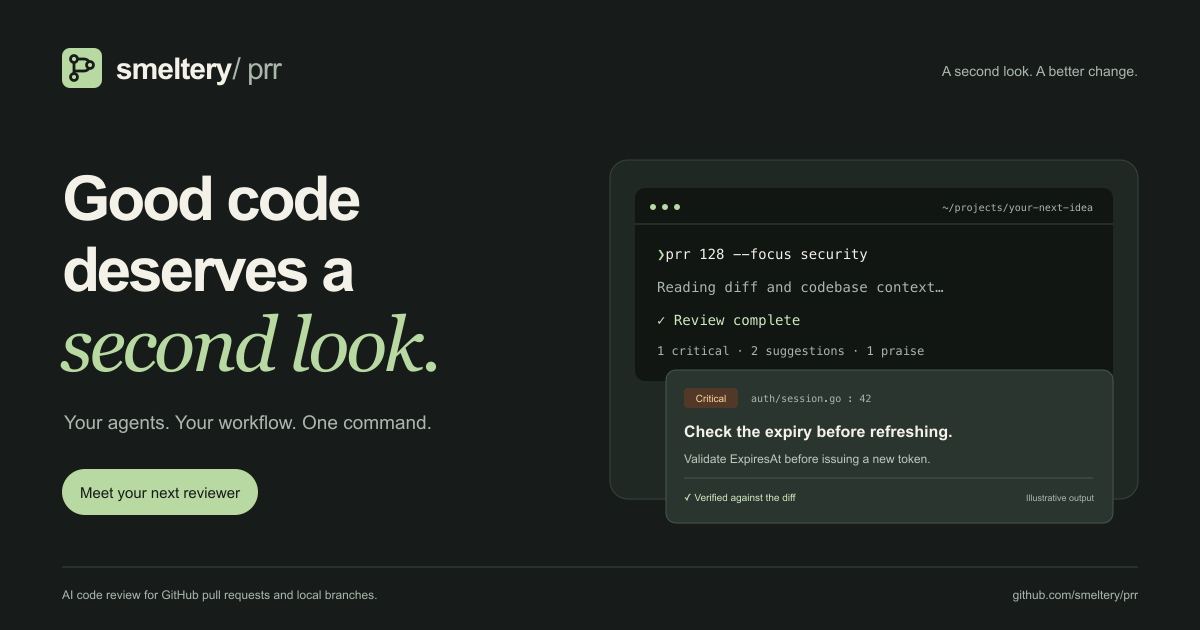
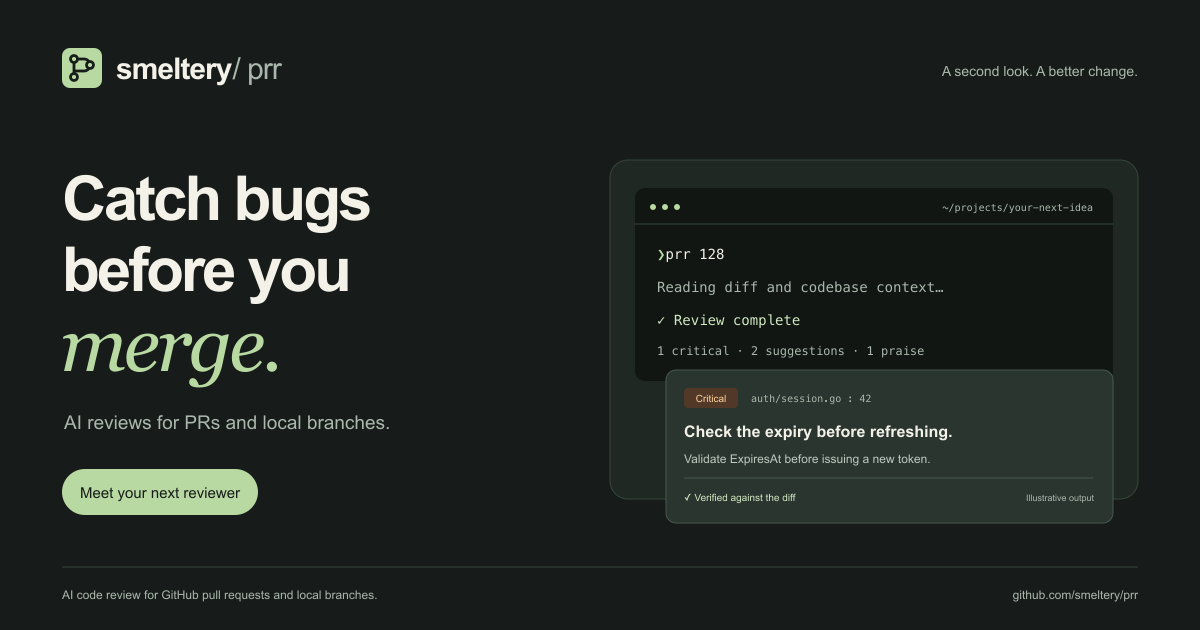
feat: make the hero explain prr at a glance

Changed region(s): [[0.0308, 0.2714, 0.37, 0.6333], [0.0617, 0.6635, 0.37, 0.6937], [0.6167, 0.3921, 0.7092, 0.4222]]

diff --git a/website/src/styles/site.css b/website/src/styles/site.css
@@ -1,9 +1,9 @@
-.hero { display: grid; grid-template-columns: 1.05fr 1fr; gap: 64px; padding-block: 110px 100px; align-items: center; }
+.hero { display: grid; grid-template-columns: 1.05fr 1fr; gap: 64px; padding-block: 80px 75px; align-items: center; }
 .hero h1 { margin: 25px 0; font-size: clamp(44px, 4.8vw, 68px); }
 .hero .lead { max-width: 470px; font-size: 17px; }
 .hero-actions { display: flex; align-items: center; gap: 26px; margin-top: 32px; }
 .text-link { font-size: 13px; text-decoration: underline; text-underline-offset: 5px; }
-.hero-platforms { display: flex; gap: 14px; font-size: 11px; color: var(--muted); margin-top: 24px; }
+.hero-platforms { display: flex; flex-wrap: wrap; gap: 14px; font-size: 11px; color: var(--muted); margin-top: 24px; }
 .review-scene { background: #202823; border: 1px solid #36453b; border-radius: 18px; padding: 28px; position: relative; }
 .scene-label { font-size: 9px; letter-spacing: .1em; margin-bottom: 25px; color: #d0e8bf; }
 .terminal { background: #111613; color: #f3f1e8; border-radius: 10px; box-shadow: 0 12px 30px #25321c16; }
@@ -24,10 +24,12 @@
 .note-foot span { margin-left: auto; color: var(--muted); font-size: 8px; }
 .scene-caption { display: flex; align-items: center; gap: 10px; font: italic 17px var(--serif); color: #bcc9bf; margin-top: 24px; }
 .scene-line { width: 30px; height: 1px; background: #b8d9a2; }
-.agent-strip { display: flex; gap: 40px; align-items: center; border-block: 1px solid var(--line); padding-block: 25px; }
-.agent-strip > span:first-child { font-size: 9px; letter-spacing: .09em; max-width: 150px; color: var(--muted); }
-.agent-strip > div { display: flex; align-items: center; gap: 9px; font-size: 16px; font-weight: 500; }
-.agent-note { margin-left: auto; font-size: 11px; color: var(--muted); }
+.agent-strip { border-top: 1px solid var(--line); margin-top: 28px; padding-top: 22px; }
+.agent-strip > span { display: block; font-size: 9px; letter-spacing: .09em; color: var(--muted); margin-bottom: 14px; }
+.hero-brands { display: flex; flex-wrap: wrap; gap: 16px 22px; }
+.hero-brands a,.hero-platforms span { display: inline-flex; align-items: center; gap: 7px; }
+.hero-brands a { font-size: 12px; }
+
 .section { padding-block: 90px; }
 .section-heading h2 { margin: 18px 0; }
 .section-heading > p:last-child { font-size: 14px; }
@@ -60,14 +62,14 @@ h2 em { font-family: var(--serif); font-weight: 400; color: var(--accent); }
 .simple-page p { margin: 24px 0; }
 .simple-page a:not(.button) { text-decoration: underline; }
 @media(min-width:1550px) { .wrap { max-width: 1320px; } }
-@media(max-width:1100px) { .hero { gap: 28px; padding-block: 70px; } .hero h1 { font-size: 49px; } .agent-strip { gap: 24px; } .agent-note { display: none; } .footer-grid { gap: 30px; grid-template-columns: 1.4fr 1fr 1fr 1fr; } }
+@media(max-width:1100px) { .hero { gap: 28px; padding-block: 70px; } .hero h1 { font-size: 49px; }  .footer-grid { gap: 30px; grid-template-columns: 1.4fr 1fr 1fr 1fr; } }
 @media(max-width:780px) {
   .wrap { width: calc(100% - 32px); } .site-header { padding-top: 10px; } .header-inner { height: 60px; padding-inline: 12px; gap: 12px; }
   .brand { font-size: 16px; gap: 8px; } .brand img { width: 28px; height: 28px; } .desktop-nav { display: none; } .header-search-trigger { margin-left: auto; }
   .menu-toggle { display: flex; align-items: center; gap: 6px; border: 1px solid var(--line); border-radius: 999px; font-size: 12px; }
   .hero { grid-template-columns: 1fr; padding-block: 55px 45px; gap: 40px; } .hero h1 { font-size: clamp(40px, 9vw, 60px); } .hero .lead { font-size: 15px; }
   .hero-actions { gap: 18px; } .hero-platforms { font-size: 10px; } .review-scene { padding: 22px 18px; } .terminal-body { padding: 18px 15px; font-size: 11px; } .review-note { margin-left: 12px; }
-  .agent-strip { flex-wrap: wrap; gap: 23px; padding-block: 22px; } .agent-strip > span:first-child { max-width: none; width: 100%; } .agent-strip > div { font-size: 13px; }
+  .hero-brands { display: grid; grid-template-columns: 1fr 1fr; gap: 14px; } .hero-brands img { width: 20px; height: 20px; }
   .section { padding-block: 60px; } .feature-grid { grid-template-columns: 1fr 1fr; } .feature-grid article:not(:nth-child(3n+1)) { padding-left: 0; border-left: 0; } .feature-grid article { padding: 25px 18px 25px 0; } .feature-grid article:nth-child(2n) { border-left: 1px solid var(--line); padding-left: 18px; padding-right: 0; }
   .feature-grid h3 { font-size: 15px; } .feature-grid p { font-size: 12px; } .steps { grid-template-columns: 1fr; gap: 32px; } .steps p { max-width: none; } .workflow-section { padding-block: 55px; }
   .quick-start { grid-template-columns: 1fr; gap: 30px; } .footer-grid { grid-template-columns: 1fr 1fr; gap: 35px 25px; } .footer-brand { grid-column: 1/-1; } .footer-grid nav h2 { margin-bottom: 20px; } .footer-grid nav > a { font-size: 12px; min-height: 28px; }
@@ -80,7 +82,7 @@ h2 em { font-family: var(--serif); font-weight: 400; color: var(--accent); }
 .github-link img { filter: none; }
 ::selection { background: #b8d9a2; color: #171c1a; }
 
-.agent-strip img { filter: brightness(0) invert(1); }
+.agent-strip img,.hero-platforms img { filter: brightness(0) invert(1); }
 
 .icon-link img { filter: brightness(0) invert(1); }
 

diff --git a/website/src/components/Hero.tsx b/website/src/components/Hero.tsx
@@ -1,0 +1,102 @@
+import Link from "next/link";
+import Image from "next/image";
+import { ShieldCheck, Terminal } from "lucide-react";
+
+export function Hero() {
+  return (
+    <section className="hero wrap">
+      <div className="hero-copy">
+        <p className="eyebrow">
+          <span className="status-dot" />
+          AI code review, right in your terminal
+        </p>
+        <h1>
+          Catch bugs
+          <br />
+          <em>before you merge.</em>
+        </h1>
+        <p className="lead">
+          Review GitHub PRs and local branches with AI. Find risky changes, verify the findings, and decide what gets
+          posted.
+        </p>
+        <div className="hero-actions">
+          <Link className="button" href="/docs/installation">
+            Review your first PR
+          </Link>
+          <Link className="text-link" href="#review-preview">
+            See a sample review
+          </Link>
+        </div>
+        <div className="hero-platforms">
+          <span>
+            <Image src="/brands/apple.svg" width={14} height={14} alt="" /> macOS
+          </span>
+          <span>
+            <Image src="/brands/linux.svg" width={14} height={14} alt="" /> Linux
+          </span>
+          <span>No automatic posting.</span>
+        </div>
+        <div className="agent-strip" aria-label="Supported tools">
+          <span>YOUR CODE. YOUR AI. ONE WORKFLOW.</span>
+          <div className="hero-brands">
+            {[
+              ["GitHub", "github", "reviews"],
+              ["Git", "git", "reviews"],
+              ["Claude", "claude", "agents"],
+              ["Codex / OpenAI", "chatgpt", "agents"],
+            ].map(([name, icon, page]) => (
+              <Link href={`/docs/${page}`} key={name}>
+                <Image src={`/brands/${icon}.svg`} alt="" width={22} height={22} />
+                {name}
+              </Link>
+            ))}
+          </div>
+        </div>
+      </div>
+      <div id="review-preview" className="review-scene" aria-label="Illustrative review output">
+        <div className="scene-label">
+          <span className="status-dot" />
+          ONE COMMAND. VERIFIED FINDINGS.
+        </div>
+        <div className="terminal">
+          <div className="terminal-top">
+            <span className="window-dots">● ● ●</span>
+            <span>~/projects/your-next-idea</span>
+            <Terminal size={14} />
+          </div>
+          <div className="terminal-body">
+            <p>
+              <span className="terminal-prompt">❯</span> prr 128
+            </p>
+            <p className="terminal-muted">Reading pull request #128…</p>
+            <p className="terminal-muted">Gathering codebase context…</p>
+            <p>
+              <span className="terminal-success">✓</span> Review complete
+            </p>
+            <div className="terminal-summary">
+              <span>1 critical</span>
+              <span>2 suggestions</span>
+              <span>1 praise</span>
+            </div>
+          </div>
+        </div>
+        <div className="review-note">
+          <div className="note-header">
+            <span className="severity">Critical</span>
+            <code>auth/session.go : 42</code>
+          </div>
+          <h2>Expired sessions can get fresh tokens.</h2>
+          <p>
+            An expired session can reach the refresh path. Validate <code>ExpiresAt</code> before issuing a new token.
+          </p>
+          <div className="note-foot">
+            <ShieldCheck size={14} /> Verified against the diff <span>Illustrative output</span>
+          </div>
+        </div>
+        <div className="scene-caption">
+          <span className="scene-line" /> Find the risk. Understand the fix.
+        </div>
+      </div>
+    </section>
+  );
+}

diff --git a/website/app/page.tsx b/website/app/page.tsx
@@ -2,84 +2,13 @@ import { ReviewScenarios, AgentChoice, SavedReviews, HomeQuestions } from "@/com
 import { Closing } from "@/components/Closing";
 import Link from "next/link";
 import { GitPullRequest, ShieldCheck, FolderGit2, MessagesSquare, FileText, Terminal } from "lucide-react";
-import { AgentStrip } from "@/components/AgentStrip";
+import { Hero } from "@/components/Hero";
 import { CopyButton } from "@/components/CopyButton";
 
 export default function Page() {
   return (
     <main id="main">
-      <section className="hero wrap">
-        <div className="hero-copy">
-          <p className="eyebrow">
-            <span className="status-dot" />A fresh perspective on every pull request
-          </p>
-          <h1>
-            Good code deserves
-            <br />a <em>second look.</em>
-          </h1>
-          <p className="lead">
-            Meet prr. Thoughtful AI code reviews for your pull requests and local branches. Your agents, your workflow,
-            one simple command.
-          </p>
-          <div className="hero-actions">
-            <Link className="button" href="/docs/installation">
-              Start your first review
-            </Link>
-            <Link className="text-link" href="/docs">
-              See how it works
-            </Link>
-          </div>
-          <div className="hero-platforms">
-            <span>Built with Go.</span>
-            <span>Made for macOS &amp; Linux.</span>
-          </div>
-        </div>
-        <div className="review-scene" aria-label="Illustrative review output">
-          <div className="scene-label">
-            <span className="status-dot" />
-            SMALL COMMAND. USEFUL PERSPECTIVE.
-          </div>
-          <div className="terminal">
-            <div className="terminal-top">
-              <span className="window-dots">● ● ●</span>
-              <span>~/projects/your-next-idea</span>
-              <Terminal size={14} />
-            </div>
-            <div className="terminal-body">
-              <p>
-                <span className="terminal-prompt">❯</span> prr 128 --focus security
-              </p>
-              <p className="terminal-muted">Reading pull request #128…</p>
-              <p className="terminal-muted">Gathering codebase context…</p>
-              <p>
-                <span className="terminal-success">✓</span> Review complete
-              </p>
-              <div className="terminal-summary">
-                <span>1 critical</span>
-                <span>2 suggestions</span>
-                <span>1 praise</span>
-              </div>
-            </div>
-          </div>
-          <div className="review-note">
-            <div className="note-header">
-              <span className="severity">Critical</span>
-              <code>auth/session.go : 42</code>
-            </div>
-            <h2>Check the expiry before refreshing.</h2>
-            <p>
-              An expired session can reach the refresh path. Validate <code>ExpiresAt</code> before issuing a new token.
-            </p>
-            <div className="note-foot">
-              <ShieldCheck size={14} /> Verified against the diff <span>Illustrative output</span>
-            </div>
-          </div>
-          <div className="scene-caption">
-            <span className="scene-line" /> More context. Less guesswork.
-          </div>
-        </div>
-      </section>
-      <AgentStrip />
+      <Hero />
       <section id="features" className="section wrap">
         <div className="section-heading">
           <p className="eyebrow">Thoughtful by design</p>

diff --git a/website/src/styles/docs-extra.css b/website/src/styles/docs-extra.css
@@ -1,4 +1,3 @@
-.docs-sidebar { top: 82px; height: calc(100dvh - 82px); }
 .docs-sidebar nav > div > a { display: block; padding: 10px; font-size: 12px; border-radius: 6px; color: #bcc9bf; }
 .docs-sidebar a[aria-current] { background: #2a352f; color: #d0e8bf; }
 .docs-main { padding-bottom: 65px; }
@@ -12,12 +11,10 @@
 .doc-content table { width: 100%; border-collapse: collapse; font-size: 12px; margin: 24px 0; }
 .doc-content th,.doc-content td { text-align: left; padding: 13px 10px; border-bottom: 1px solid var(--line); overflow-wrap: anywhere; }
 .doc-content th { color: #f3f1e8; }.doc-content td { color: #bcc9bf; }
-.docs-toc { top: 100px; color: #aab7ac; }
 .docs-toc nav { display: grid; gap: 16px; line-height: 1.5; }
 .docs-pagination { display: flex; justify-content: space-between; gap: 20px; border-top: 1px solid var(--line); margin-top: 45px; padding-top: 24px; }
 .docs-pagination small { display: block; color: var(--muted); font-size: 11px; }
 .mermaid-diagram { margin: 25px 0; padding: 22px; border: 1px solid var(--line); background: #202823; border-radius: 12px; overflow: auto; }
-.mermaid-diagram svg { display: block; min-width: 450px; height: auto; margin: auto; }
 .mobile-toc { display: none; }
 @media(max-width:1100px) { .docs-toc { display: none; } .mobile-toc { display: block; padding: 12px; border: 1px solid var(--line); border-radius: 8px; margin-bottom: 30px; font-size: 12px; } .mobile-toc nav { display: grid; gap: 12px; margin-top: 15px; } }
 @media(max-width:700px) { .docs-sidebar { position: static; height: auto; } .docs-sidebar nav > div { flex-shrink: 0; } .docs-sidebar p { display: none; } .docs-main { padding-inline: 20px; } .docs-main h1 { font-size: 42px; } .doc-content table { font-size: 11px; table-layout: fixed; } .doc-content td { padding: 10px 5px; } }

diff --git a/tests/website.spec.ts b/tests/website.spec.ts
@@ -113,6 +113,12 @@ test("homepage questions and brand assets work", async ({ page, context, request
   for (const selector of [".scenarios", ".agent-choice", ".saved-reviews", ".faq-section"]) {
     await expect(page.locator(selector)).toBeVisible();
   }
+  await expect(page.locator(".hero h1")).toHaveText("Catch bugsbefore you merge.");
+  for (const logo of await page.locator(".hero-copy img").all()) {
+    expect(await logo.evaluate((image: HTMLImageElement) => image.complete && image.naturalWidth > 0)).toBe(true);
+  }
+  await page.getByRole("link", { name: "See a sample review" }).click();
+  await expect(page).toHaveURL(/#review-preview$/);
   const question = page.locator("summary").filter({ hasText: "Does prr post comments automatically?" });
   await question.click();
   await expect(page.locator("details[open]")).toContainText("preview the payload");

diff --git a/website/app/brand/page.tsx b/website/app/brand/page.tsx
@@ -62,7 +62,7 @@ export default function BrandPage() {
         <figure className="social">
           <Image
             src="/og.png"
-            alt="prr: Good code deserves a second look. A terminal review and a verified finding on charcoal."
+            alt="prr: Catch bugs before you merge. A terminal review and a verified finding on charcoal."
             width={1200}
             height={630}
           />

diff --git a/website/src/styles/globals.css b/website/src/styles/globals.css
@@ -207,9 +207,6 @@ button[hidden],
   letter-spacing: -0.04em;
   white-space: nowrap;
 }
-.brand:hover {
-  text-decoration: none;
-}
 .brand-sub {
   font-weight: 400;
   color: var(--muted);
@@ -259,9 +256,6 @@ button[hidden],
   display: grid;
   grid-template-columns: 1.6fr 1fr 1fr 1.1fr;
   gap: 40px;
-}
-.site-footer .brand img {
-  object-fit: contain;
 }
 .footer-brand > p {
   font-family: var(--serif);

diff --git a/THIRD_PARTY_LICENSES.md b/THIRD_PARTY_LICENSES.md
@@ -14,6 +14,7 @@ Search layout and keyboard interactions are adapted from [Pyreload](https://gith
 - Lucide: ISC license, with Feather-derived icons under MIT; see the installed package notices.
 - React and Next.js: MIT license.
 - Marked and Mermaid: MIT license.
+- Git, Apple and Linux marks: SVGs from Simple Icons (CC0-1.0), used to identify supported tools/platforms.
 - GitHub, Claude, OpenAI, v0, T3 Chat, Scira and Cursor brand marks: used only to identify integrations. Trademarks remain with their respective owners; no endorsement is implied.
 
 The prr mark and social illustration are original project assets. Dependency licenses remain in their installed packages and distributions.
